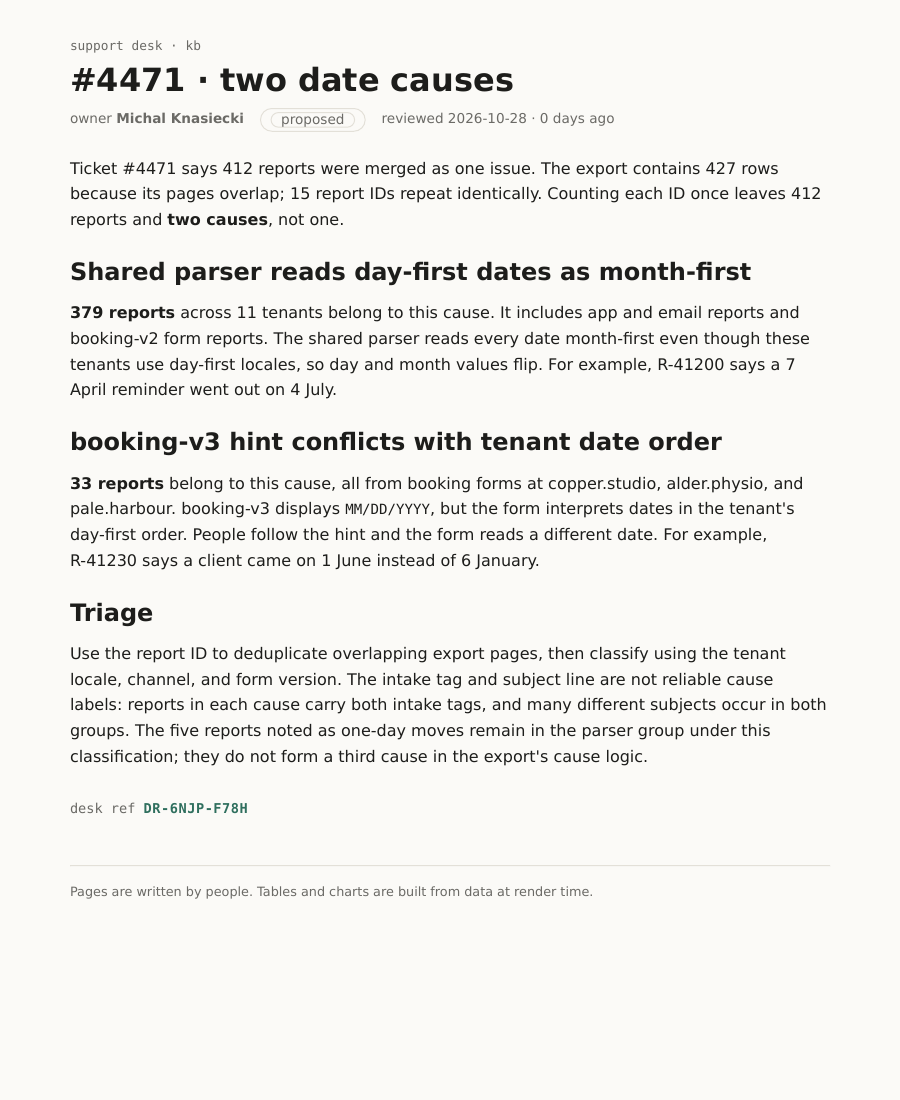
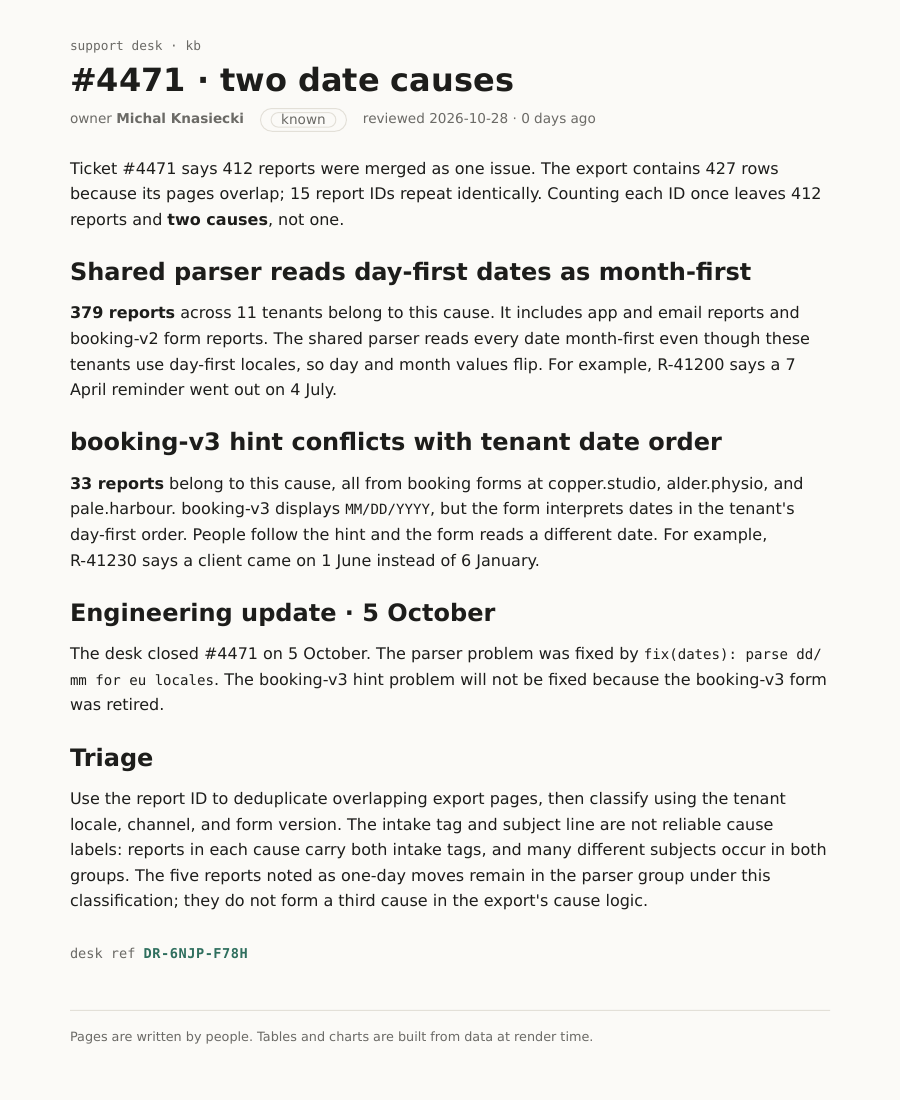
Record #4471 engineering outcomes

diff --git a/artifacts/4471-causes.html b/artifacts/4471-causes.html
@@ -58,7 +58,7 @@
         <h1>#4471 · two date causes</h1>
         <p class="meta">
           <span>owner <b>Michal Knasiecki</b></span>
-          <span class="status">proposed</span>
+          <span class="status">known</span>
           <span>reviewed 2026-10-28 · 0 days ago</span>
         </p>
       </header>
@@ -70,6 +70,9 @@
 
         <h2>booking-v3 hint conflicts with tenant date order</h2>
         <p><strong>33 reports</strong> belong to this cause, all from booking forms at copper.studio, alder.physio, and pale.harbour. booking-v3 displays <code>MM/DD/YYYY</code>, but the form interprets dates in the tenant's day-first order. People follow the hint and the form reads a different date. For example, R-41230 says a client came on 1 June instead of 6 January.</p>
+
+        <h2>Engineering update · 5 October</h2>
+        <p>The desk closed #4471 on 5 October. The parser problem was fixed by <code>fix(dates): parse dd/mm for eu locales</code>. The booking-v3 hint problem will not be fixed because the booking-v3 form was retired.</p>
 
         <h2>Triage</h2>
         <p>Use the report ID to deduplicate overlapping export pages, then classify using the tenant locale, channel, and form version. The intake tag and subject line are not reliable cause labels: reports in each cause carry both intake tags, and many different subjects occur in both groups. The five reports noted as one-day moves remain in the parser group under this classification; they do not form a third cause in the export's cause logic.</p>
